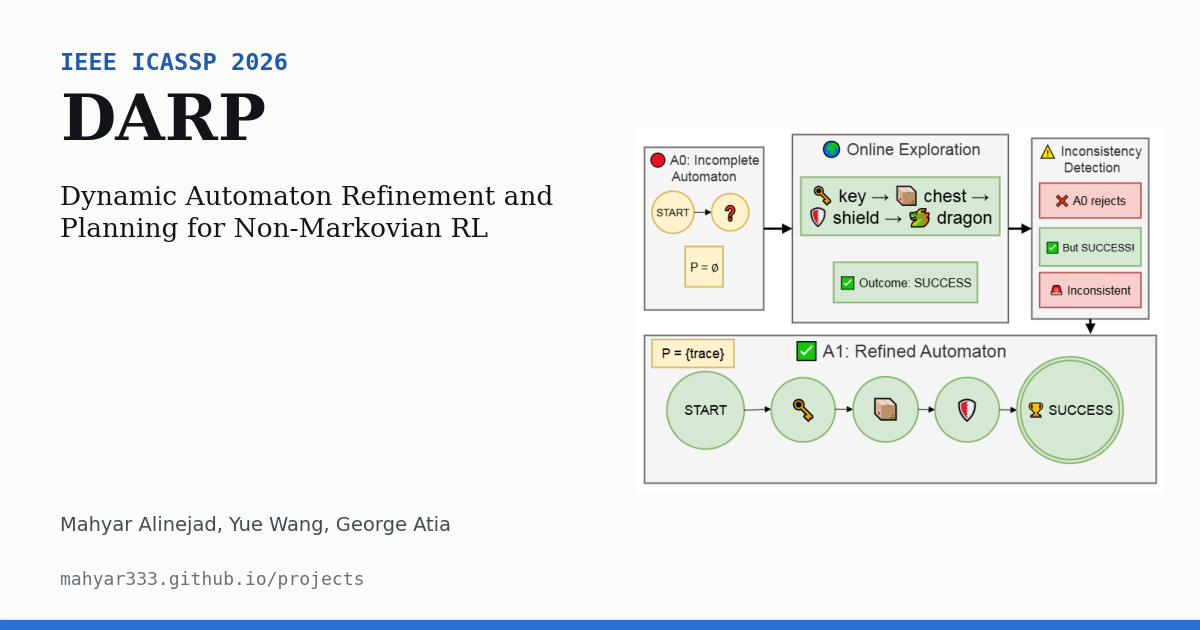
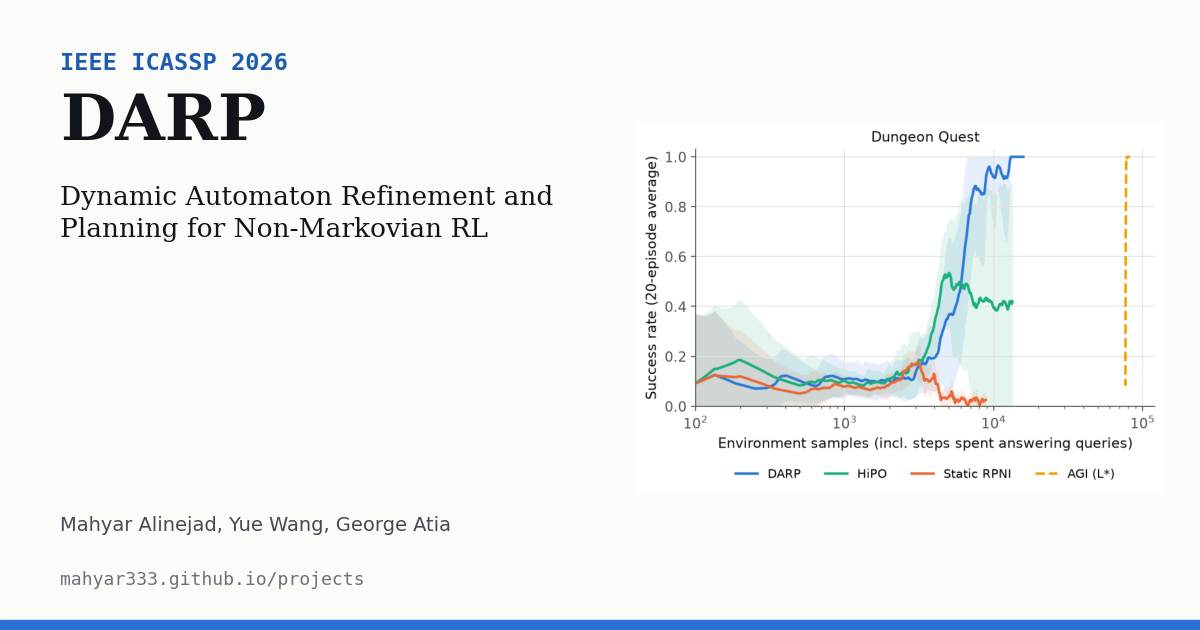
DARP project page: drawn overview diagram

Changed region(s): [[0.5242, 0.2111, 0.9558, 0.7841]]

diff --git a/projects/darp/index.html b/projects/darp/index.html
@@ -117,8 +117,28 @@
           disagrees. DARP starts from incomplete knowledge (even zero successful examples), refines its automaton online whenever
           an episode's outcome contradicts it, and explores where the automaton is least certain, with no oracle queries.</p>
         <figure class="fig">
-          <img src="img/darp_overview.png" alt="DARP overview: an incomplete automaton guides online exploration; an episode succeeds although the automaton rejected it, the inconsistency is detected, and the automaton is refined to accept key, chest, shield, dragon.">
-          <figcaption>An incomplete automaton rejects a trace that actually succeeds. DARP detects the inconsistency and refines the automaton online.</figcaption>
+          <svg class="pipe" viewBox="0 0 860 300" role="img" aria-label="DARP loop: the current automaton with per-state confidence guides planning and exploration; after each episode the outcome is checked against the automaton; if consistent the agent keeps planning, otherwise confidence-weighted RPNI refines the automaton and the product MDP is updated incrementally, keeping learned Q-values.">
+            <defs><marker id="ah" viewBox="0 0 10 10" refX="9" refY="5" markerWidth="7" markerHeight="7" orient="auto-start-reverse"><path class="ah" d="M0,0 L10,5 L0,10 z"/></marker></defs>
+            <g class="box key"><rect x="10" y="60" width="170" height="74" rx="12"/><text x="95" y="92">Automaton 𝒜ₜ</text><text class="sub" x="95" y="113">confidence c(q) per state</text></g>
+            <g class="box"><rect x="225" y="60" width="185" height="74" rx="12"/><text x="317" y="92">Plan &amp; explore</text><text class="sub" x="317" y="113">product MDP + UCB bonus</text></g>
+            <g class="box"><rect x="455" y="60" width="160" height="74" rx="12"/><text x="535" y="92">Episode</text><text class="sub" x="535" y="113">trace wₜ, outcome yₜ</text></g>
+            <g class="box key"><rect x="660" y="60" width="190" height="74" rx="12"/><text x="755" y="92">Consistent?</text><text class="sub" x="755" y="113">𝒜ₜ(wₜ) = yₜ and c(q) ≥ θ</text></g>
+            <g class="box key"><rect x="660" y="200" width="190" height="74" rx="12"/><text x="755" y="232">Refine</text><text class="sub" x="755" y="253">confidence-weighted RPNI</text></g>
+            <g class="box"><rect x="355" y="200" width="250" height="74" rx="12"/><text x="480" y="232">Update product MDP</text><text class="sub" x="480" y="253">keep Q-values of unchanged states</text></g>
+            <path class="arrow" d="M180 97 H221" marker-end="url(#ah)"/>
+            <path class="arrow" d="M410 97 H451" marker-end="url(#ah)"/>
+            <path class="arrow" d="M615 97 H656" marker-end="url(#ah)"/>
+            <path class="arrow" d="M755 60 V30 H317 V56" marker-end="url(#ah)"/>
+            <text class="lab" x="536" y="22">yes: keep learning the policy</text>
+            <path class="arrow" d="M755 134 V196" marker-end="url(#ah)"/>
+            <text class="lab" x="766" y="172" style="text-anchor:start">no: inconsistency</text>
+            <text class="lab" x="766" y="187" style="text-anchor:start">or coverage gap</text>
+            <path class="arrow" d="M660 237 H609" marker-end="url(#ah)"/>
+            <path class="arrow" d="M355 237 H95 V138" marker-end="url(#ah)"/>
+            <text class="lab" x="225" y="228">𝒜ₜ₊₁</text>
+          </svg>
+          <figcaption>The DARP loop. The automaton is learned from the agent's own episodes and refined only when an outcome
+            contradicts it or the run reaches a low-confidence state; learned Q-values are kept across refinements.</figcaption>
         </figure>
       </div>
     </section>
